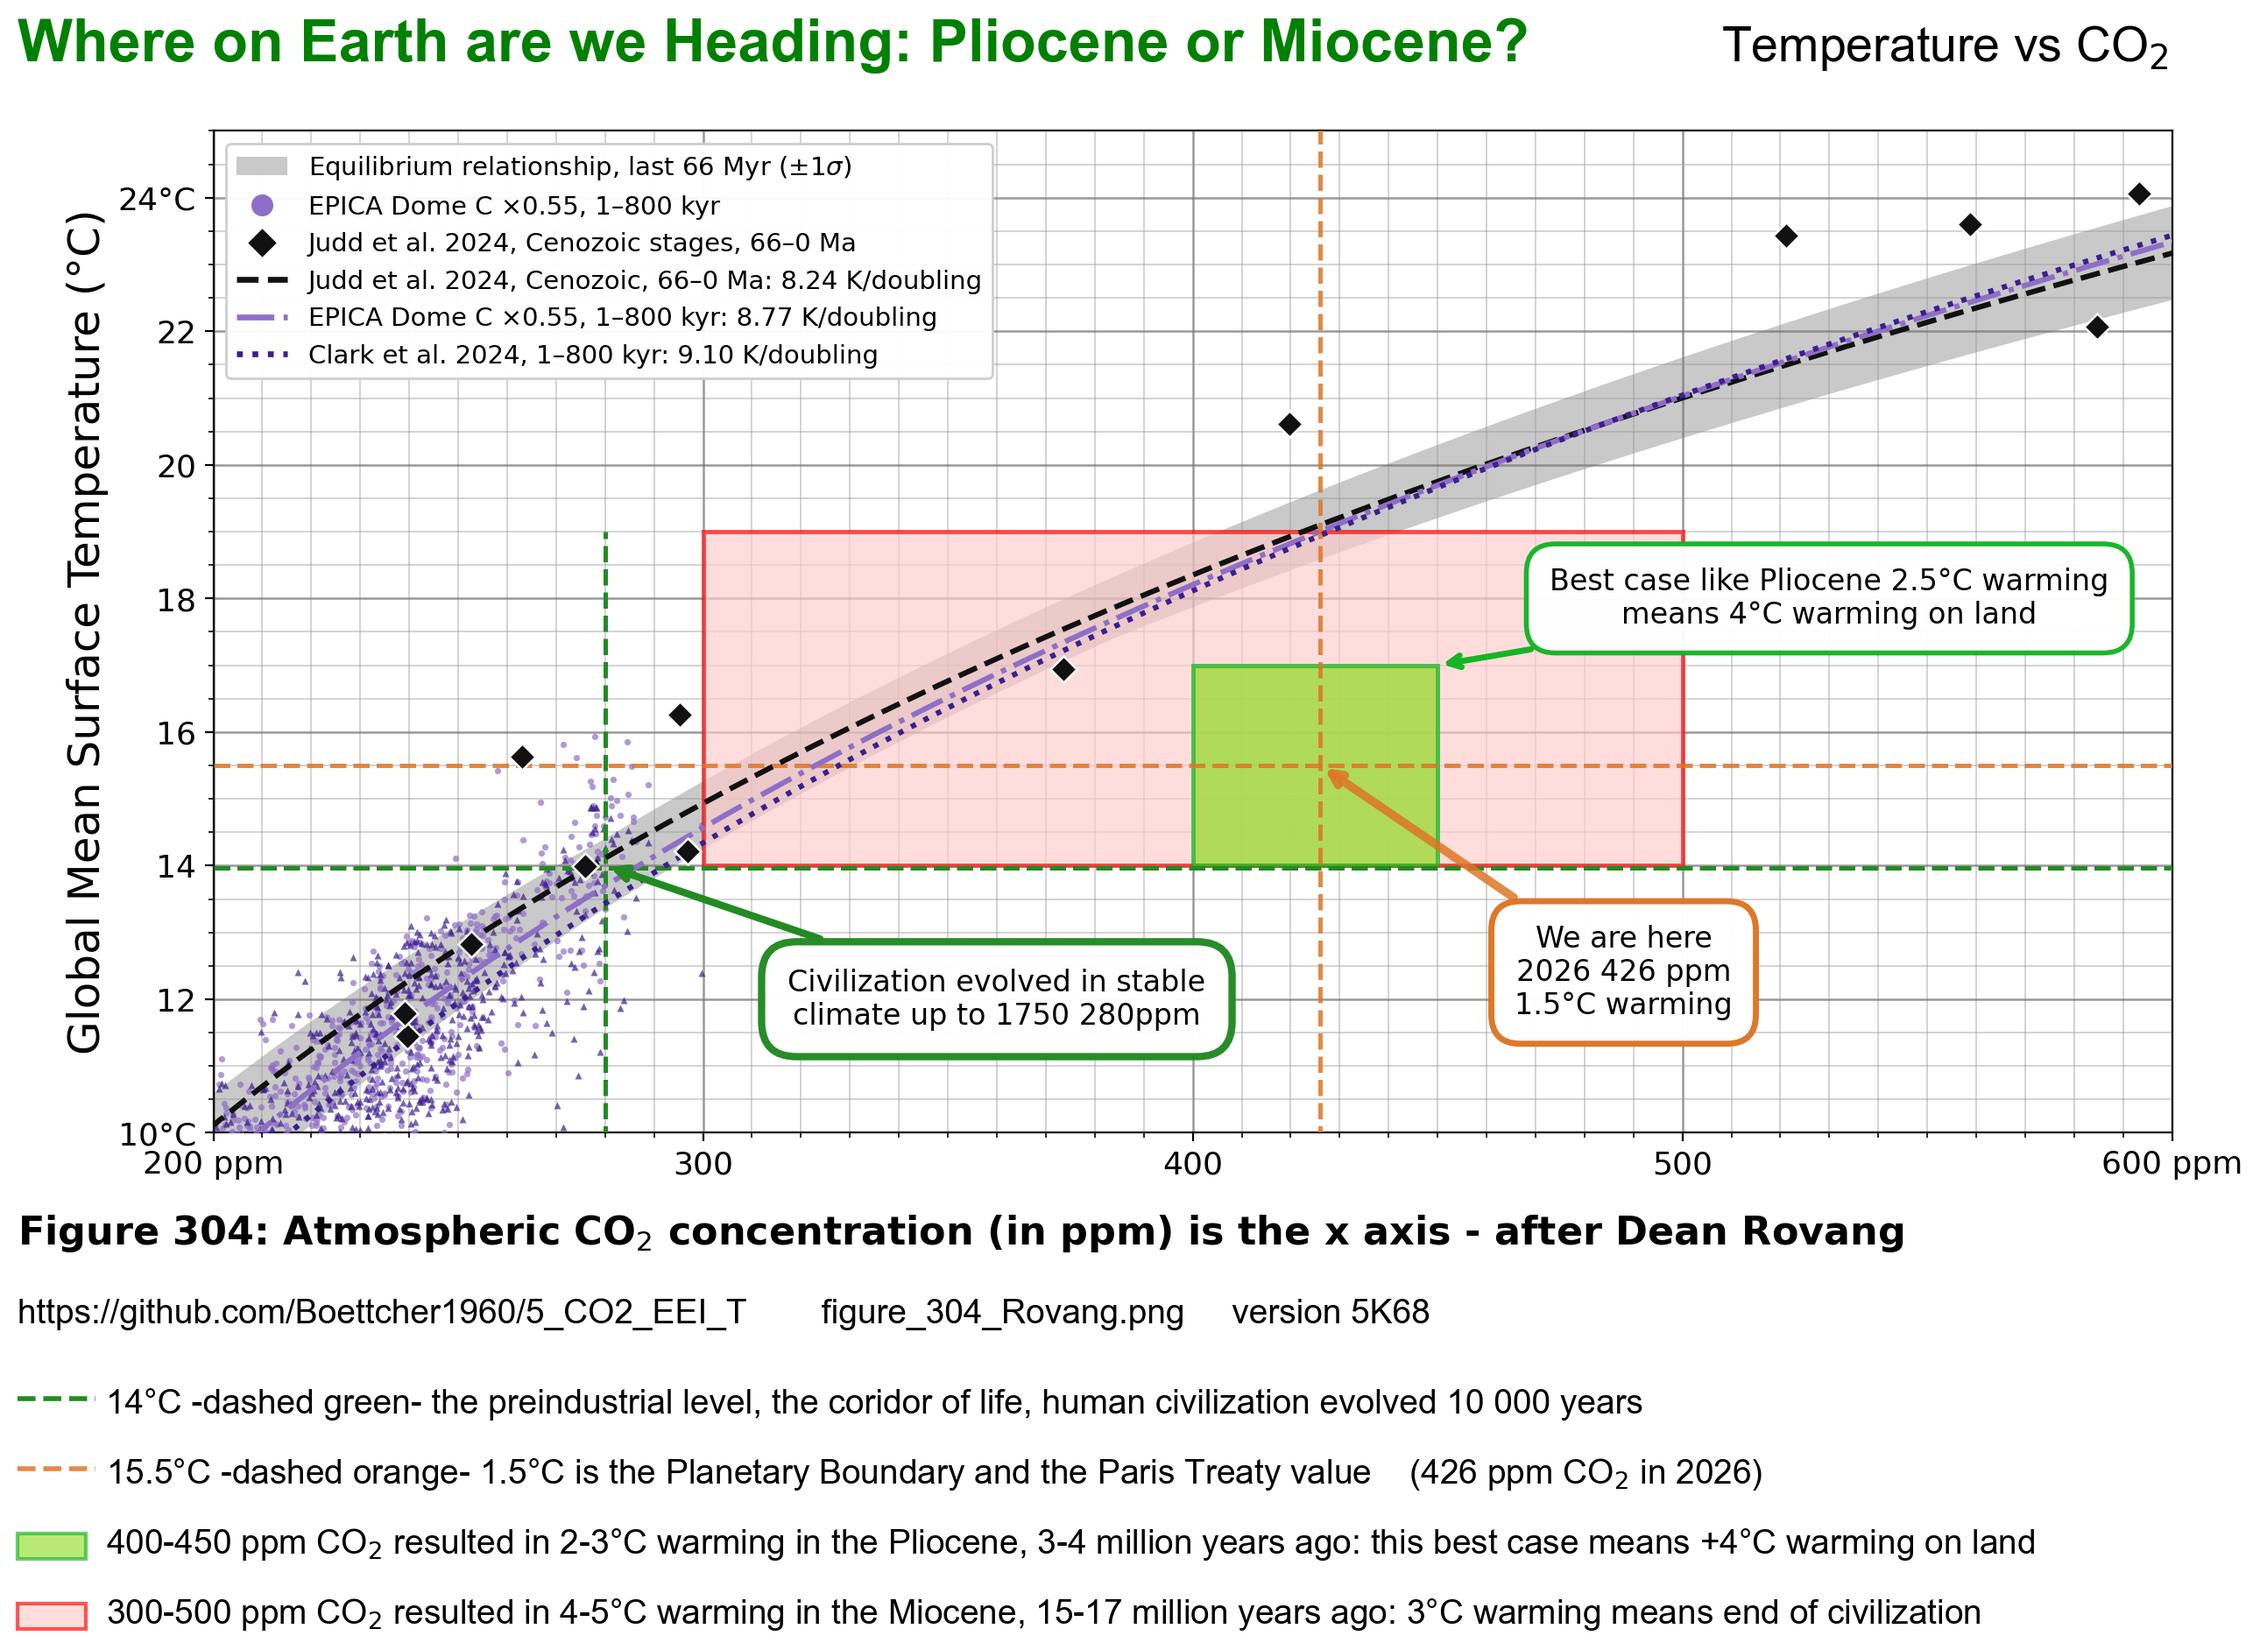
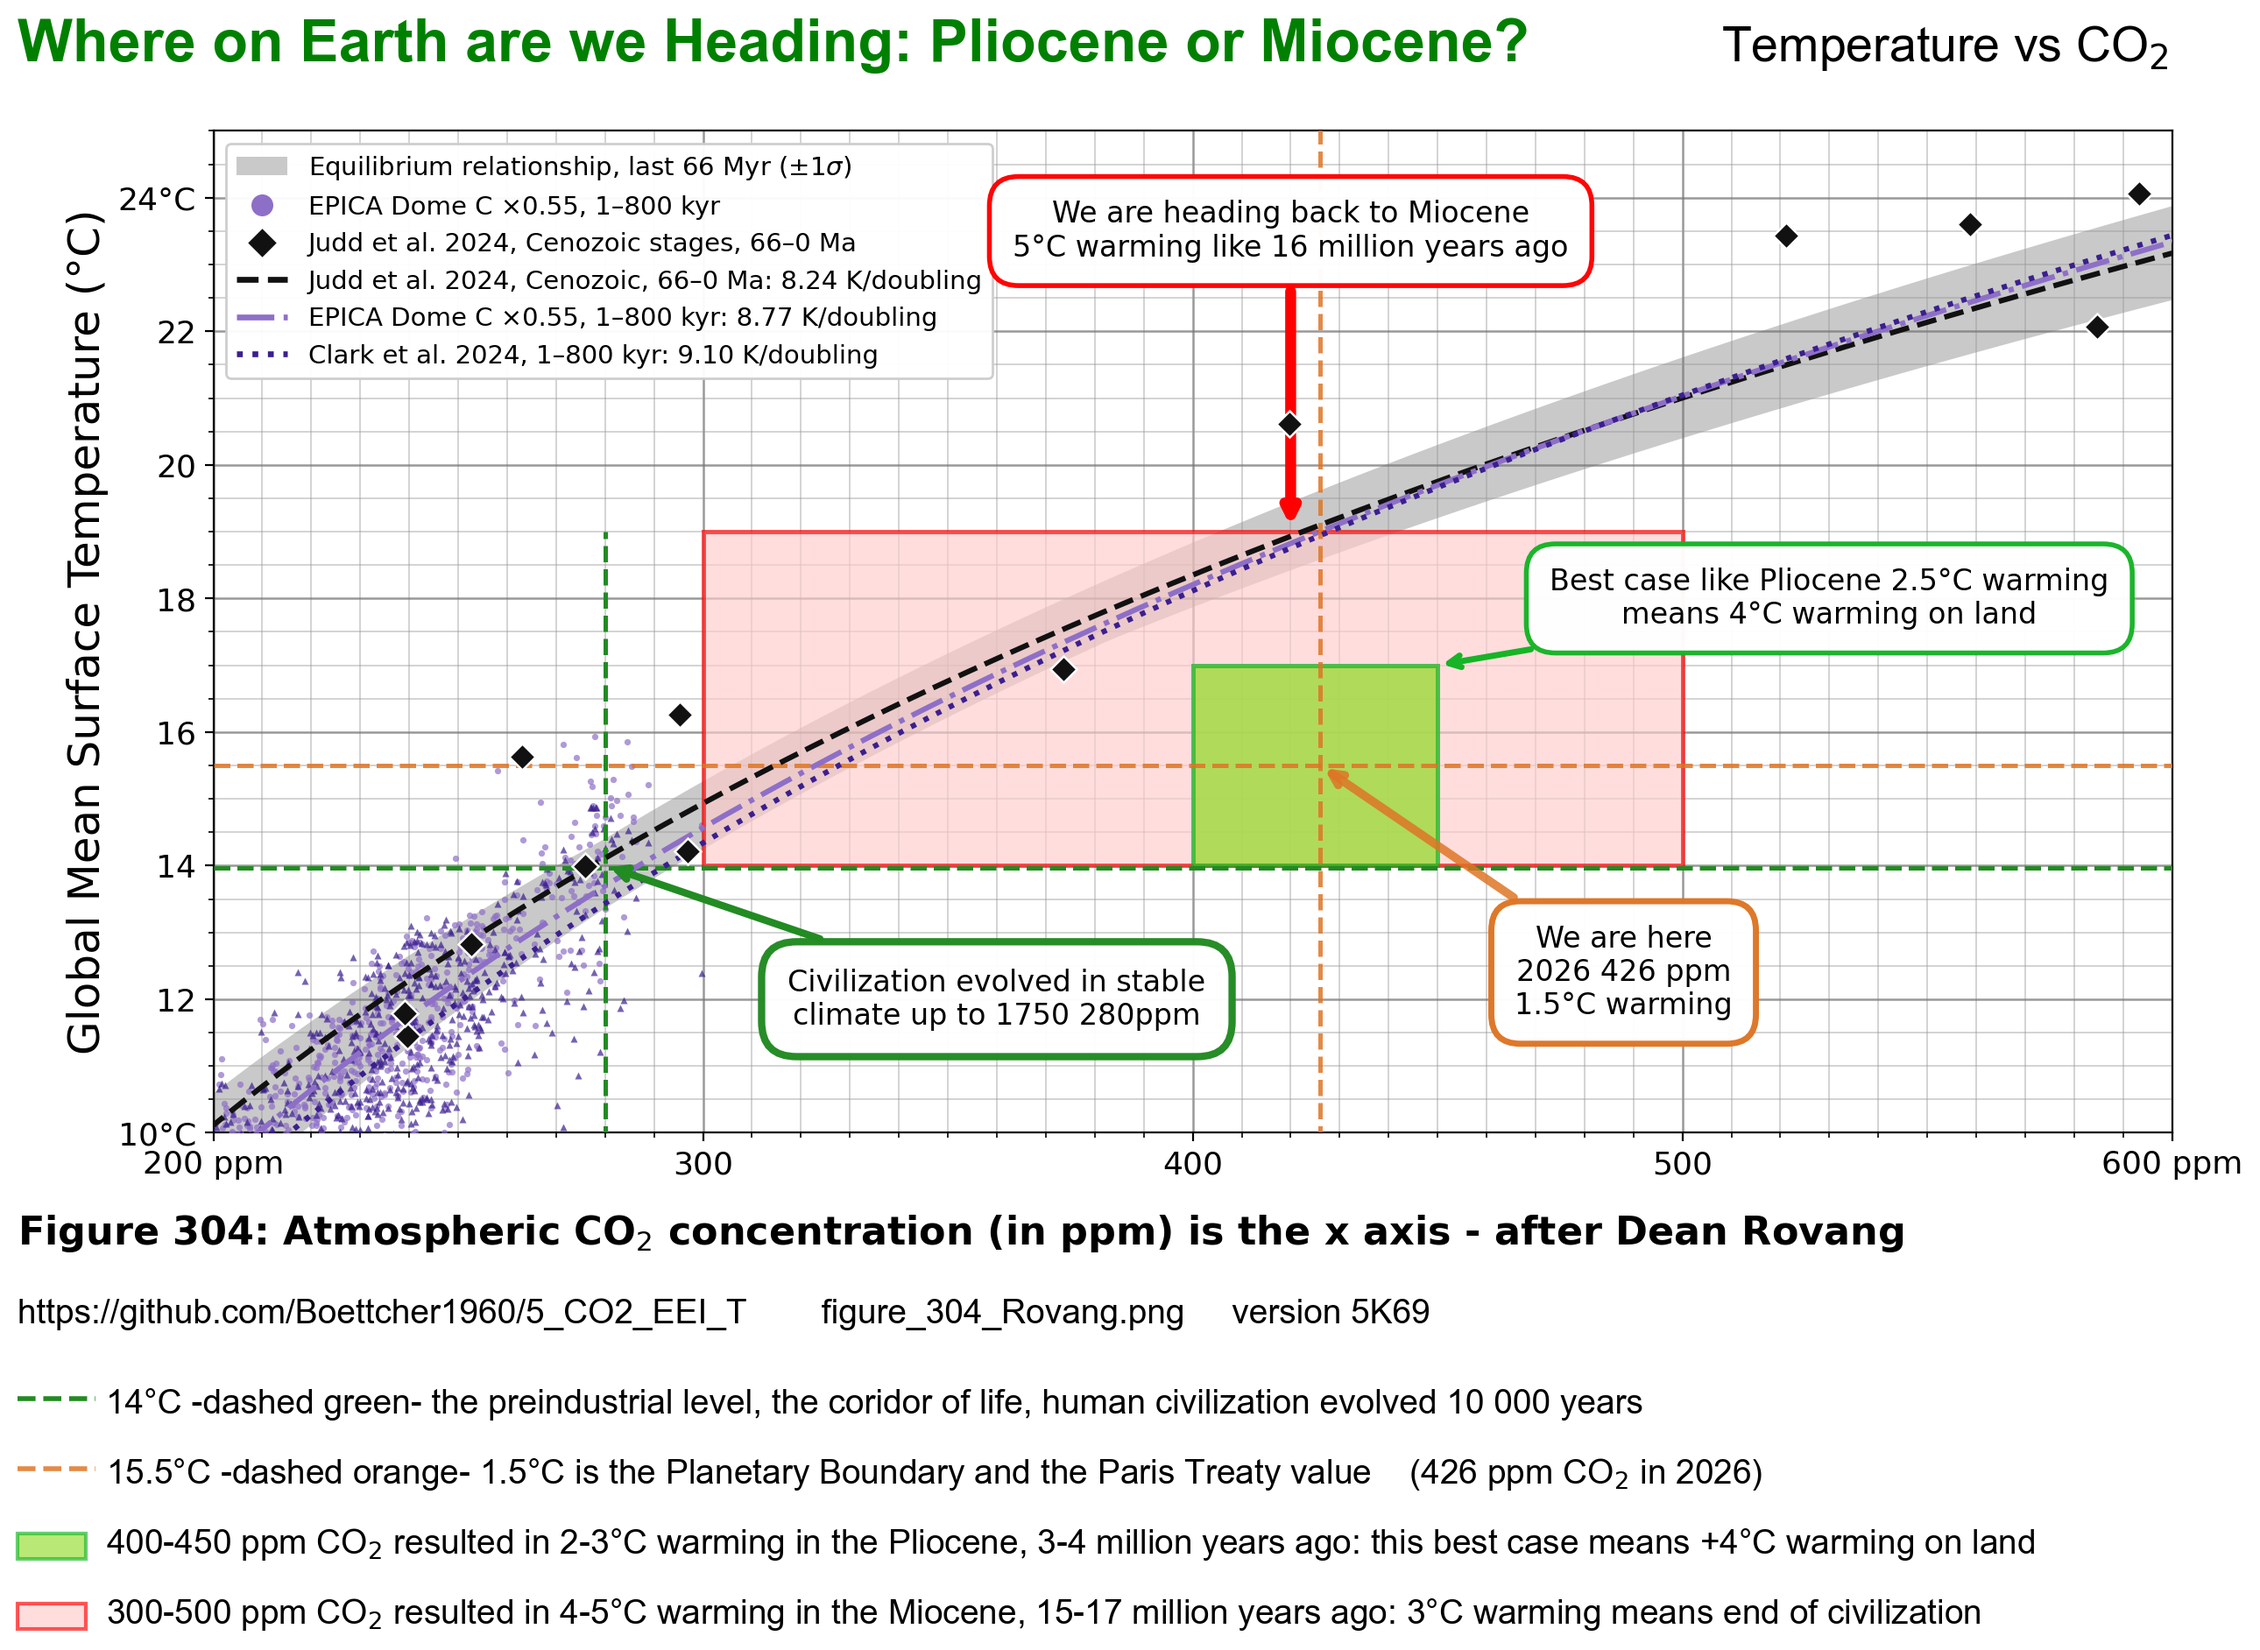
5K69

Changed region(s): [[0.4341, 0.0924, 0.7132, 0.2463], [0.5581, 0.2771, 0.5891, 0.3079]]

diff --git a/Rovang/Rovang_figure_303.py b/Rovang/Rovang_figure_303.py
@@ -302,6 +302,17 @@ def _create_figure(linear_x=False):
         arrowprops={"arrowstyle": "->", "color": cbox303Maedge, "lw": 2.5},
         zorder=10,
     )
+    ax.annotate(
+        "We are heading back to Miocene\n5\u00b0C warming like 16 million years ago",
+        xy=(420, 19), xycoords="data",
+        xytext=(420, y_303max - 1.5), textcoords="data",
+        ha="center", va="center", fontsize=12, color="black",
+        bbox={"boxstyle": "round,pad=0.8,rounding_size=1.0",
+              "facecolor": "white", "edgecolor": "red",
+              "linewidth": 2, "alpha": 0.98},
+        arrowprops={"arrowstyle": "->", "color": "red", "lw": 4.5},
+        zorder=10,
+    )
 
     # 303.100 legend with the 3 fits and the 4 bands from Dean Rowing
     handles = [

diff --git a/main.py b/main.py
@@ -1,5 +1,5 @@
 # main.py
-v = "5K68" # make 4 text lines below the plot like in text_9_print_7_lines():
+v = "5K69" # make 4 text lines below the plot like in text_9_print_7_lines():
 # https://github.com/Boettcher1960/5_CO2_EEI_T
 # ocean stratification https://bsky.app/profile/thomas-boettcher.bsky.social/post/3mj7zx7fzsc26
 # https://drtomharris.substack.com/p/the-great-decoupling-how-ocean-stratification

diff --git a/models.py b/models.py
@@ -1070,6 +1070,10 @@ move the black box to the left 510ppm
 
 move the black box 1°C up and change the black color to cbox303Maedge
 
+make a thick red arrow pointing to 420 ppm, 19°C from top from 
+a white bubble with text "We are heading back to Miocene 5°C warming like 16 million years ago"
+
+
 """
 
 
